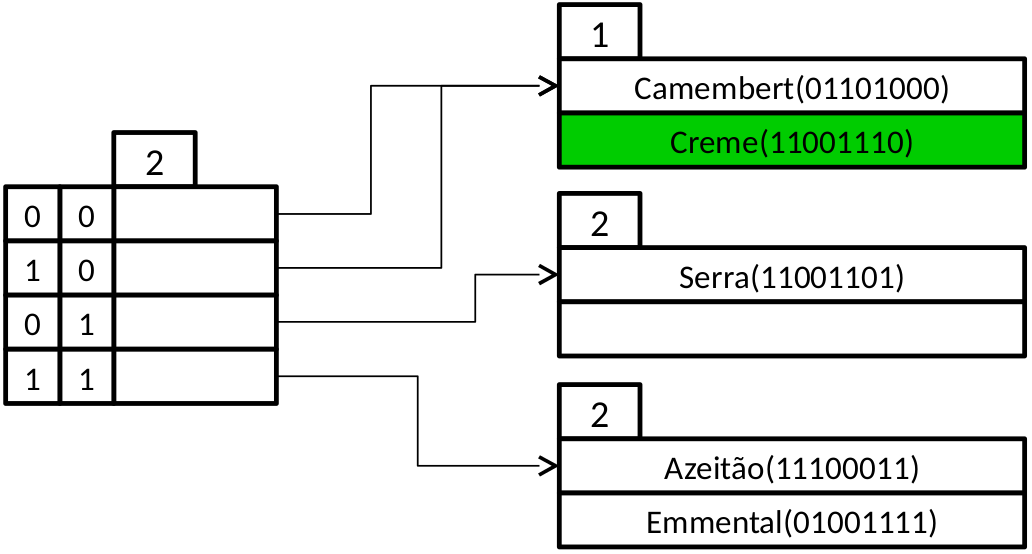
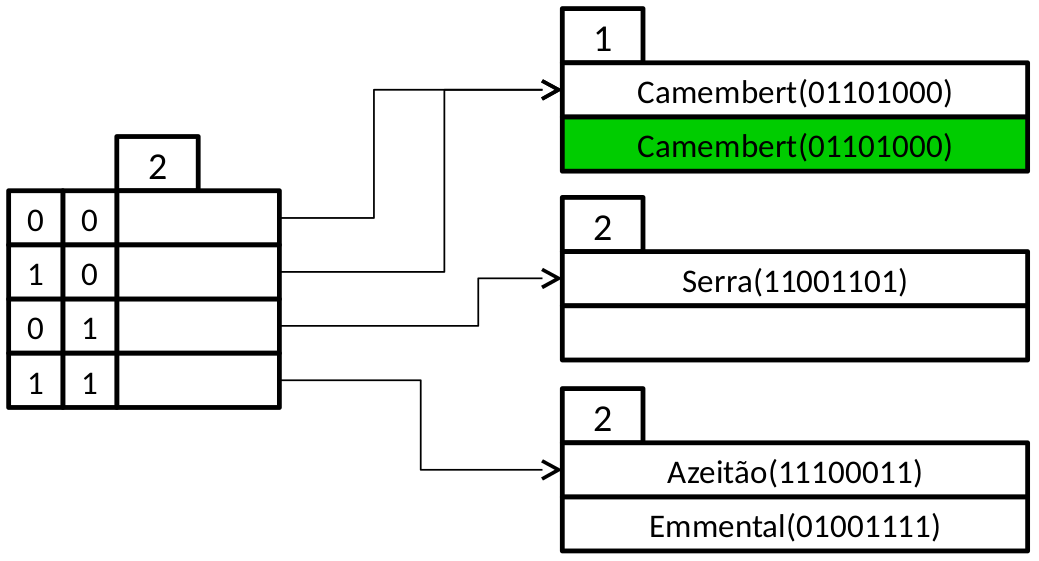
[AOBD] hash fix

Changed region(s): [[0.3411, 0.0, 1.0, 1.0], [0.0, 0.2148, 0.4341, 0.7365]]

diff --git a/aobd/mp1/section03.tex b/aobd/mp1/section03.tex
@@ -62,14 +62,34 @@
 		\includegraphics[width=\textwidth]{fig6.png}
 
 	\end{subfigure}
+	\caption{Camembert - 01101000}
+	\end{center}
+\end{figure}
+\begin{figure}[H]
+	\begin{center}
+	\begin{subfigure}[b]{0.75\textwidth}
+		\centering
+		\includegraphics[width=\textwidth]{fig7.png}
+
+	\end{subfigure}
+	\caption{Camembert - 01101000}
+	\end{center}
+\end{figure}
+\begin{figure}[H]
+	\begin{center}
+	\begin{subfigure}[b]{0.75\textwidth}
+		\centering
+		\includegraphics[width=\textwidth]{fig8.png}
+
+	\end{subfigure}
 	\caption{Creme - 11001110}
 	\end{center}
 \end{figure}
 \begin{figure}[H]
 	\begin{center}
-	\begin{subfigure}[b]{0.5\textwidth}
+	\begin{subfigure}[b]{0.75\textwidth}
 		\centering
-		\includegraphics[width=\textwidth]{fig7.png}
+		\includegraphics[width=\textwidth]{fig9.png}
 
 	\end{subfigure}
 	\caption{Alverca curado - 00110110}

diff --git a/aobd/mp1/section04.tex b/aobd/mp1/section04.tex
@@ -61,7 +61,7 @@
 
 	\tab $M = 3$ pages
 	\begin{equation}Cost_{merge} = (b_r + b_s) \end{equation}
-	\begin{equation}Cost_{sort} = 2b_s(\lceil log_{M-1}(b_s/M) \rceil+1) \end{equation}
+	\begin{equation}Cost_{sort} = b_r(2\lceil log_{M-1}(b_r/M) \rceil+1) \end{equation}
 	\begin{equation}Cost = Cost_{sort} + Cost_{merge} \end{equation}	
 
 
